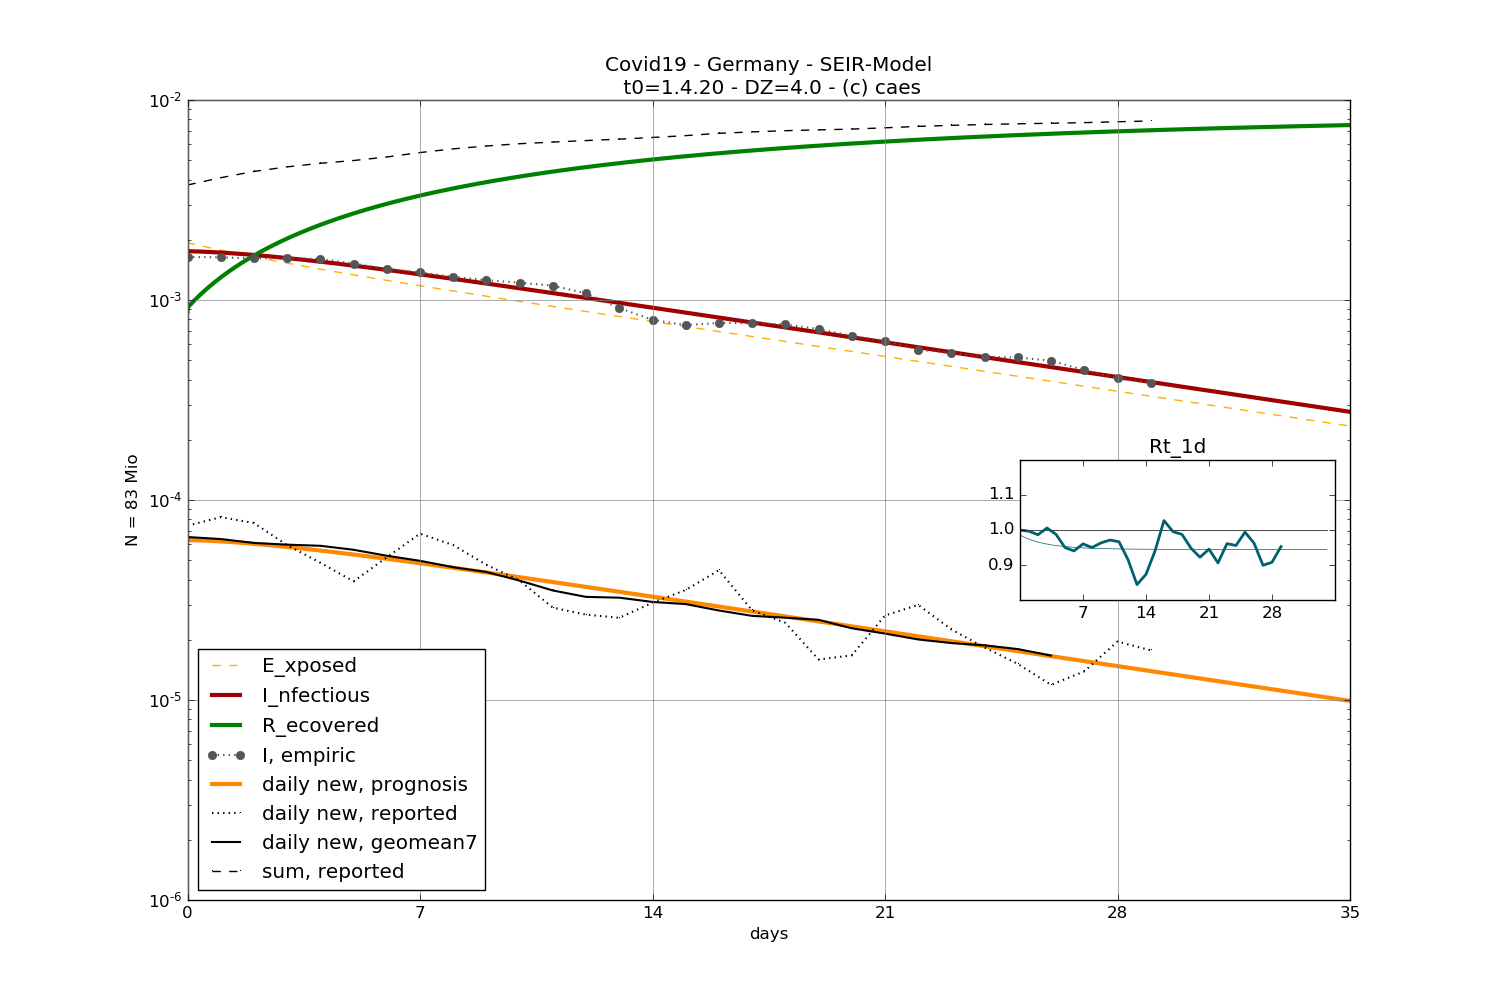
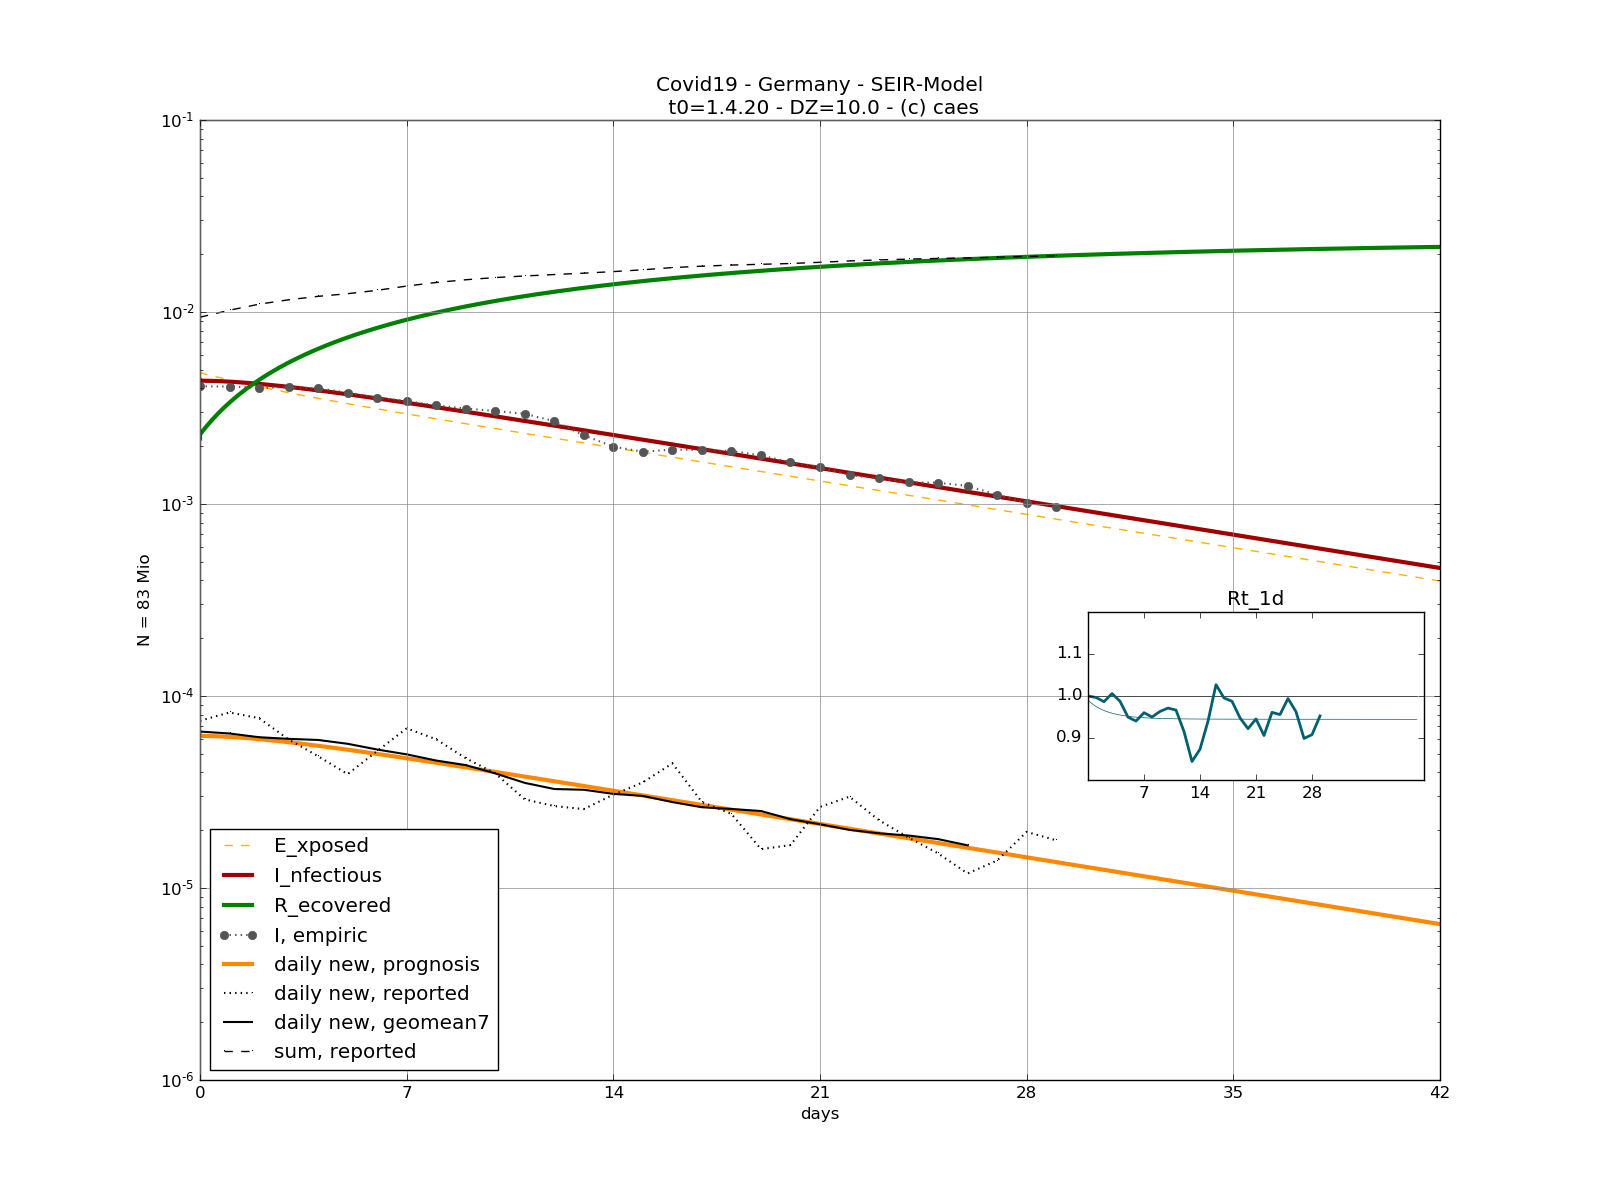
Squashed 'python/Covid19-germany-luethen/' changes from 952a5c2..a795924
a795924 Update README.md
dc5f4b7 Add files via upload
fe1219c Add files via upload
e7d58b8 Add files via upload
9dd7bfc Delete go.py
063b00f Add files via upload
33b9ab7 Delete apr.png

git-subtree-dir: python/Covid19-germany-luethen
git-subtree-split: a79592479ca815cb46c498ae91c9743b47ce3d2c

diff --git a/apr2020/go.py b/apr2020/go.py
@@ -11,7 +11,7 @@ from data import neu, country, NN
 import datetime
 
   # mission control
-Tmax=35; DZ=4; R00=0.52; gamma00=1/3.6; alpha00=1/4; beta00=R00*gamma00
+Tmax=42; DZ=10; R00=0.581; gamma00=1/4.073; alpha00=1/4.5
 
   # estimated daily new infections   
 neu_prognos=[]; neu_geomean=[]
@@ -86,7 +86,7 @@ def diagram(sim):
     import matplotlib.pyplot as plt
     global I_emp, neu, sum; neu_prognos=[]
     plt.style.use("classic")
-    figure,ax = plt.subplots(facecolor="#ffffff", figsize=(15,10))
+    figure,ax = plt.subplots(facecolor="#ffffff", figsize=(16,12))
     ax.set_xlim(0, Tmax); 
     ax.grid(linestyle="-", linewidth=0.5, color="#888888")
     ax.grid(axis="y", which="major", linestyle="-", linewidth=0.5, color="#888888") 
@@ -121,7 +121,7 @@ def diagram(sim):
     for k in range(1, len(I_emp)): 
       Rt_emp.append((I_emp[k]/I_emp[k-1]))
     Rt_akt=Rt[10*len(I_emp)]
-    iax=figure.add_axes([.68, .4, .21, .14], facecolor="w", xlim=[0,Tmax])
+    iax=figure.add_axes([.68, .35, .21, .14], facecolor="w", xlim=[0,Tmax])
     iax.plot(t[0:len(Rt)],[1 for _ in Rt], color="#000000", linewidth=0.5)   
     iax.plot(t[0:len(Rt)],Rt, color="#006070", linewidth=0.5)   
     iax.plot(range(0, len(Rt_emp)),Rt_emp[-vonhinten:], color="#006070", linewidth=2)
@@ -153,15 +153,16 @@ while switches<3:
   if rms1>rms0:   # getting worse
     faktor=1/faktor    
     switches+=1"""
-faktor=1.002; switches=0  ### optimize gamma00
+"""faktor=1.002; switches=0  ### optimize gamma00
 while switches<3:
   rms0=getRMS(sim1)
   gamma00=gamma00*faktor
   rms1=getRMS(sim1)
   if rms1>rms0:   # getting worse
     faktor=1/faktor
-    switches+=1
+    switches+=1"""
  
   ## so far, so good, so plot
+beta00=R00*gamma00 # doppelte Buchfuehrung fuer neu_prognos  
 rms1=getRMS(sim1)
 diagram(sim1)

diff --git a/README.md b/README.md
@@ -15,7 +15,7 @@ April 2020
 
 Fitting params: 
 ```
-[Rt_1d  Rt_SI  Rt_4d]       = 0.9444 0.6488 0.7955
-[SI     T2     MSE]         = 7.5622 12.118 2.7639e-03
-[R0 1/beta 1/alpha 1/gamma] = 0.5200 8.8164 5.2699 4.5846
+[Rt_1d  Rt_SI  Rt_4d]       = 0.9445 0.6873 0.7959
+[SI     T2     MSE]         = 6.5726 12.150 2.7671e-03
+[R0 1/beta 1/alpha 1/gamma] = 0.5810 7.0103 4.5361 4.0730
 ```
